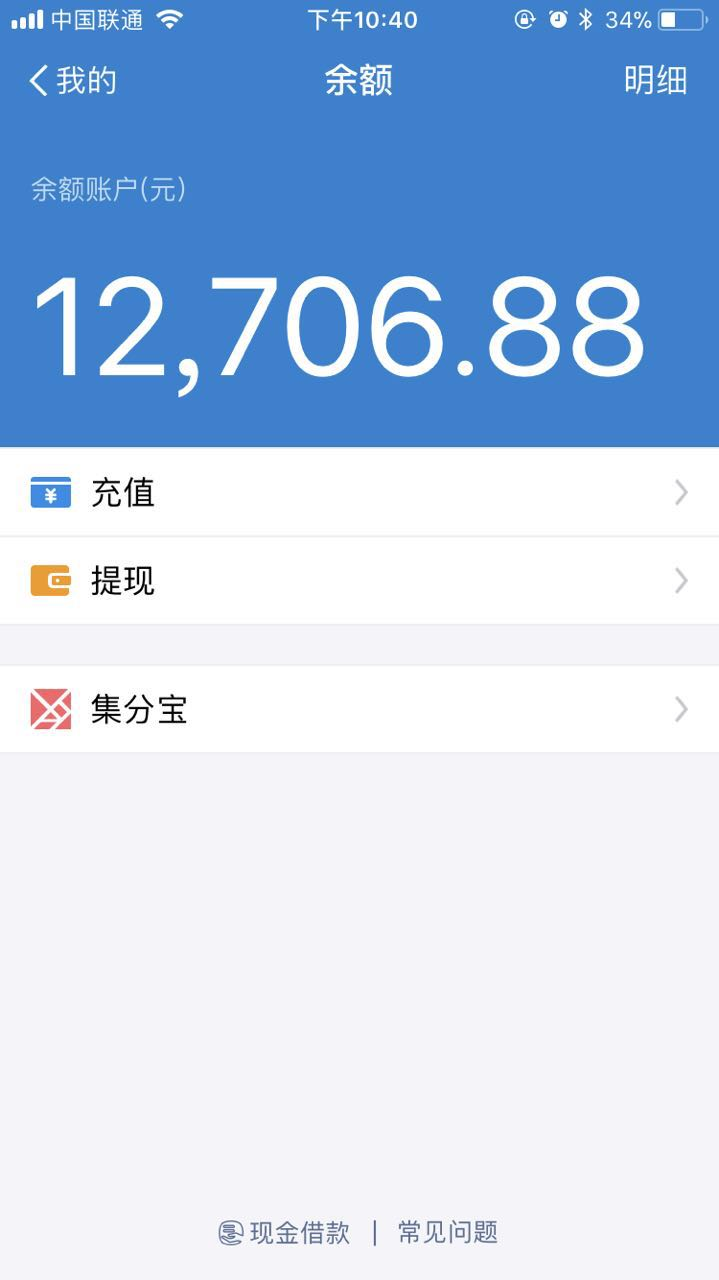
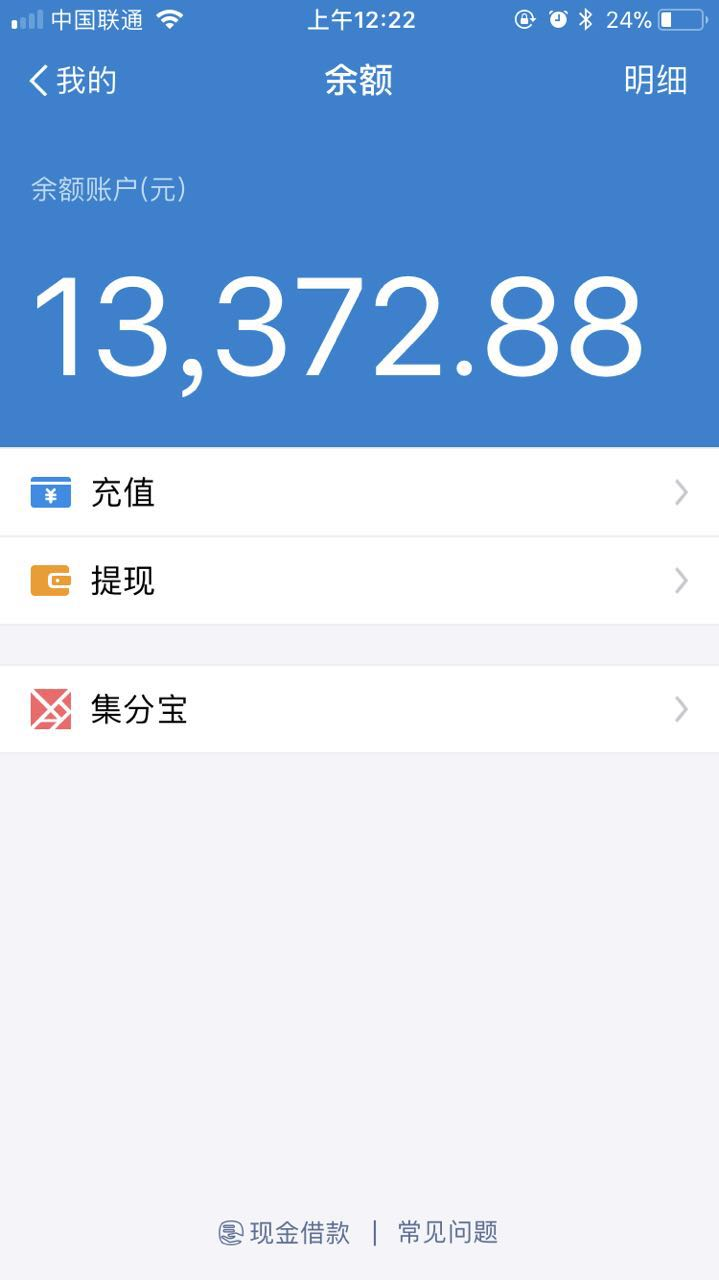
income: 内推小王子 666元 20170811 个人赞助

diff --git a/README.md b/README.md
@@ -1,6 +1,6 @@
 #  NodeParty 开源基金会运作草案 
 
-![](https://img.shields.io/badge/余额-12706.88%20元-green.svg) ![](https://img.shields.io/badge/赞助笔数-15%20笔-green.svg) ![](https://img.shields.io/badge/待入账-5430.00%20元-blue.svg) 
+![](https://img.shields.io/badge/余额-13372.88%20元-green.svg) ![](https://img.shields.io/badge/赞助笔数-16%20笔-green.svg) ![](https://img.shields.io/badge/待入账-5430.00%20元-blue.svg) 
 
 ## 组织介绍
 
@@ -113,6 +113,7 @@ Commit Message 需按照此格式：
 | @又拍云  | 3000.00 | 2017-08-10 | 企业赞助 | [#19](https://github.com/Hangzhou-Node-Party/JS-OpenSource-Foundation/issues/19) |
 | @xiaojue  | 500.00 | 2017-08-10 | 个人赞助 | [#20](https://github.com/Hangzhou-Node-Party/JS-OpenSource-Foundation/issues/20) |
 | @5265liu  | 100.00 | 2017-08-10 | 个人赞助 | [#21](https://github.com/Hangzhou-Node-Party/JS-OpenSource-Foundation/issues/21) |
+| @内推小王子  | 666.00 | 2017-08-11 | 个人赞助 | [#22](https://github.com/Hangzhou-Node-Party/JS-OpenSource-Foundation/issues/22) |
 
 感谢以下个人的赞助：
 
@@ -138,16 +139,17 @@ Commit Message 需按照此格式：
 [![](./img/qingshan_logo.png)](http://bbdk.xiaoxinjin.com/)
 [![](./img/youpai_logo.png)](https://www.upyun.com/)
 
-感谢以下开源组织的赞助：
+感谢以下开源组织或个人组织的赞助：
 
 ![](https://img.shields.io/badge/SAN-666元-brightgreen.svg)
 ![](https://img.shields.io/badge/ECharts-666元-brightgreen.svg)
 ![](https://img.shields.io/badge/兔耳日记-500元-brightgreen.svg)
+![](https://img.shields.io/badge/内推小王子-666元-brightgreen.svg)
 
 [![](./img/tuer_logo.png)](http://www.tuer.me)
 [![](./img/san_logo.png)](https://ecomfe.github.io/san/)
 [![](./img/echarts_logo.png)](https://github.com/ecomfe/echarts)
-
+![](./img/neitui_logo.png)
 
 > 活动收入挂在讲师名下记录，其他赞助个人和企业名义记录。
 
@@ -164,8 +166,8 @@ Commit Message 需按照此格式：
 <!-- money start -->
 | 款项 | 金额 |
 |------|------|
-| **总额** | 12706.88 元 |
-| **本月收入** | 12706.88 元 |
+| **总额** | 13372.88 元 |
+| **本月收入** | 13372.88 元 |
 | **待入账** | 5430.00 元 |
 | **本月支出** | 0 元 |
 <!-- money end -->

diff --git a/INCOMING.md b/INCOMING.md
@@ -17,3 +17,4 @@
 | @又拍云  | 3000.00 | 2017-08-10 | 企业赞助 | [又拍官网](https://www.upyun.com/) |
 | @xiaojue  | 500.00 | 2017-08-10 | 个人赞助 | [兔耳日记](http://www.tuer.me) |
 | @5265liu  | 100.00 | 2017-08-10 | 个人赞助 | 个人开发者，赞助下芋头的活动 |
+| @内推小王子  | 666.00 | 2017-08-11 | 个人赞助 | 微信搜 内推小王子 |
